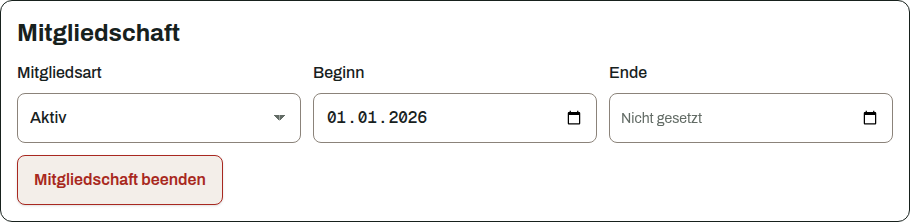
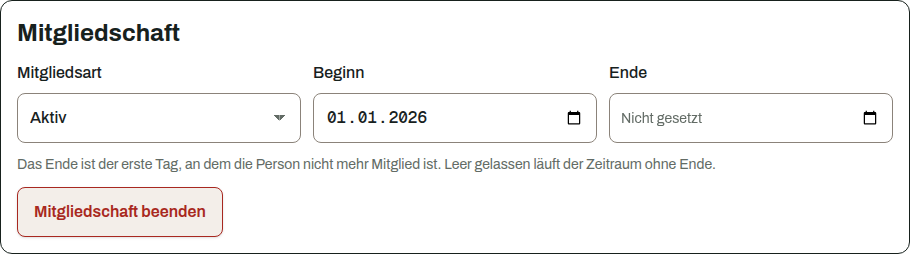
docs(site): describe the membership periods and redraw the membership capture
The board guide in both languages describes the period list, a period that begins in the future
and the end date as the first day without the membership; the membership capture shows the new
hint under the dates.

diff --git a/site/board-guide.md b/site/board-guide.md
@@ -354,11 +354,16 @@ Vorname, Nachname und E-Mail-Adresse kannst du später korrigieren.
 
 ![Die Personenliste mit Suche, Filter und den wichtigsten Kontodaten.](screenshots/de/admin-roster.png)
 
-Nach dem Öffnen einer Person stehen drei Bereiche bereit:
+Nach dem Öffnen einer Person stehen diese Bereiche bereit:
 
 * Unter **Person** bearbeitest du Vorname, Nachname und E-Mail-Adresse.
 * Unter **Mitgliedschaft** bearbeitest du Mitgliedsart, Beginn und Ende. Beende eine
-  Mitgliedschaft, statt sie zu löschen. Das Enddatum bleibt korrigierbar.
+  Mitgliedschaft, statt sie zu löschen. Das Enddatum bleibt korrigierbar. Das Ende ist der erste
+  Tag, an dem die Person nicht mehr Mitglied ist.
+* Unter **Zeiträume der Mitgliedschaft** stehen alle Zeiträume dieser Person, auch ein Wechsel der
+  Mitgliedsart oder ein Wiedereintritt. Ein Zeitraum darf in der Zukunft beginnen und gilt erst ab
+  seinem ersten Tag. Zwei Zeiträume dürfen sich nicht überschneiden. Einen falsch erfassten
+  Zeitraum korrigierst oder entfernst du dort.
 * Unter **Konto** verwaltest du Benutzername, Sprache der Benachrichtigungen, Rollen, Status und
   Zugangsdaten. Für ein Konto ist eine E-Mail-Adresse erforderlich.
 

diff --git a/site/en/board-guide.md b/site/en/board-guide.md
@@ -333,11 +333,14 @@ name and email address later.
 
 ![The people list with search, filters and the main account details.](../screenshots/en/admin-roster.png)
 
-After opening a person, you can edit three areas:
+After opening a person, you can edit these areas:
 
 * **Person** contains first name, last name and email address.
 * **Membership** contains type, start and end. End a membership instead of deleting it. You can
-  correct the end date later.
+  correct the end date later. The end is the first day the person is no longer a member.
+* **Membership periods** lists every period of this person, including a change of type or a
+  return. A period may begin in the future and holds from its first day only. Two periods may not
+  overlap. Correct or remove a period recorded by mistake there.
 * **Account** contains username, the language used for notifications, roles, state and credentials.
   An account requires an email address.
 
